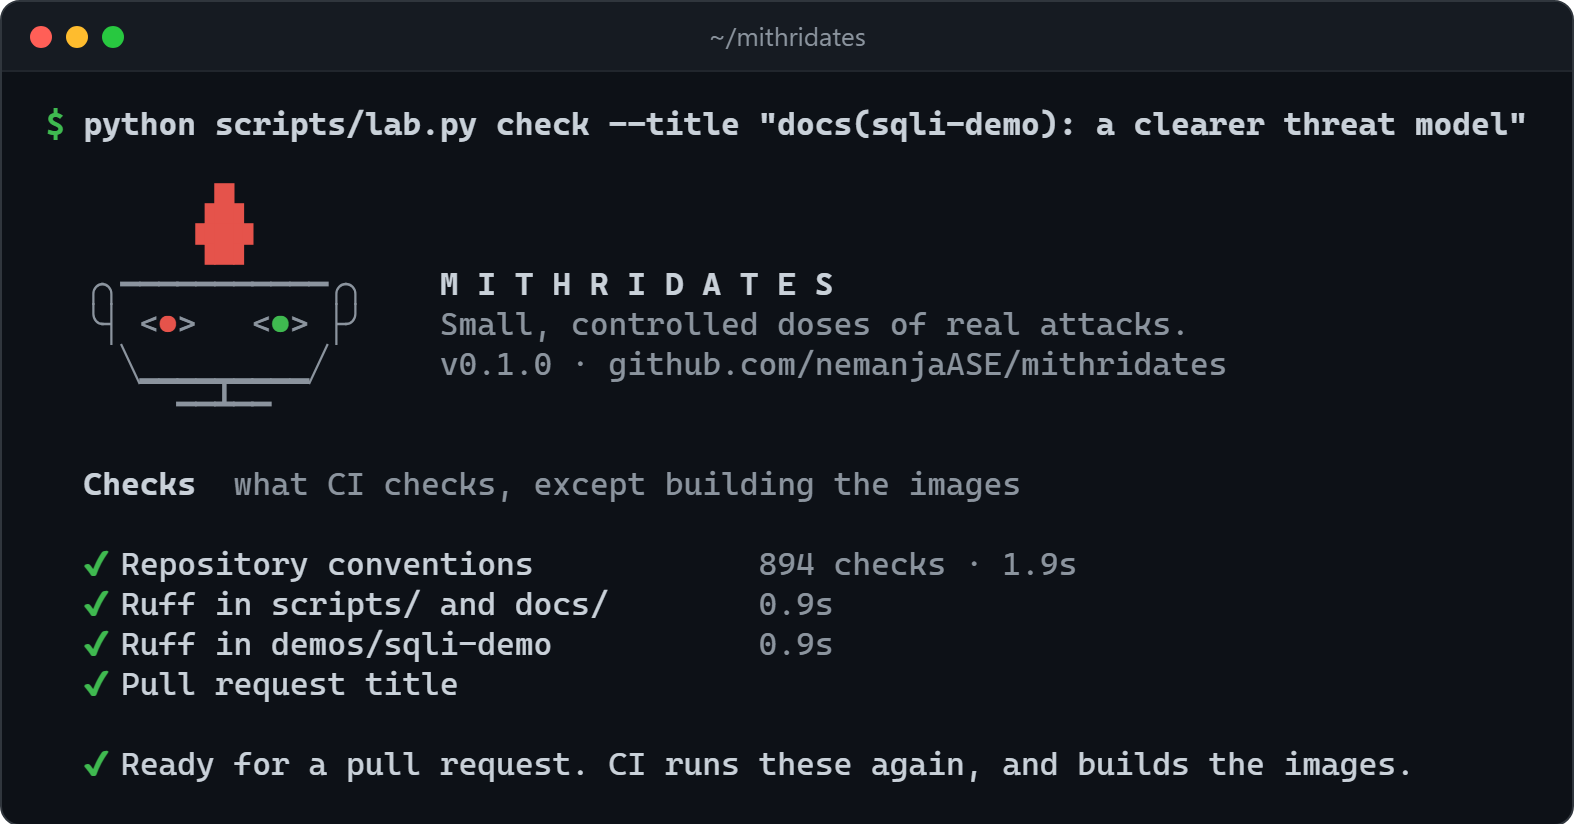
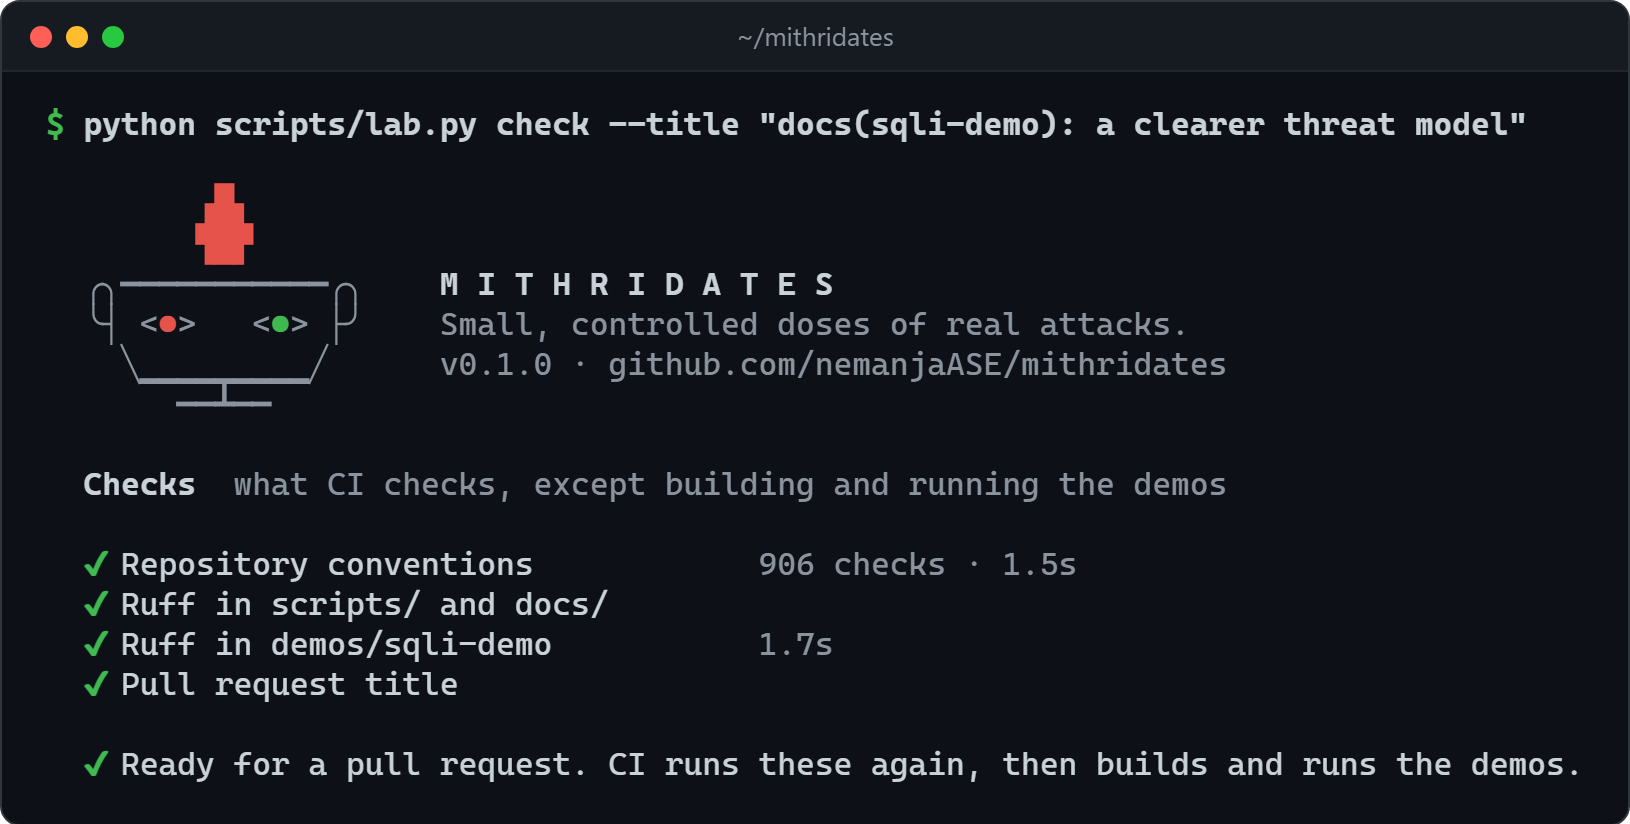
ci: run each demo's Bruno collection against the running stack (#15)
## What this changes

A new workflow, `bruno.yml`, starts each demo with `docker compose up
--wait` and runs its Bruno collection against it, with the CLI pinned to
4.3.0.

- A demo runs on every pull request. One whose stack is too slow for
that sets `x-mithridates.bruno-in-ci: on-change` in its `compose.yaml`,
with a reason; it then runs when a pull request touches it, every
Monday, and by hand. `promptinj-demo` does this, because it downloads
about 2 GB of models.
- `scripts/bruno_plan.py` decides which demos run; `check_repo.py`
checks the field and its reason.
- One aggregate check, `Bruno`, passes when every planned run passed, so
a new demo needs no change to the ruleset.

CONTRIBUTING.md (Verification, Continuous integration),
`repository-settings.md`, AGENTS.md and the wording of `lab.py check`
describe the new check; the terminal screenshots are redrawn.

Verified locally: the plan for a README-only change, a change to
`promptinj-demo` and a change to the workflow; the `sqli-demo` job's
steps (19/19 requests, 30/30 assertions); a failing run exits non-zero;
actionlint and ruff pass.

## Checklist

- [x] `python scripts/lab.py check --title "<this title>"` passes
- [x] Every default and path the documentation names matches the code

diff --git a/scripts/bruno_plan.py b/scripts/bruno_plan.py
@@ -1,0 +1,73 @@
+"""Which demos CI runs the Bruno collection of, as a JSON list for a job matrix.
+
+    python scripts/bruno_plan.py --changed-since <git ref>
+    python scripts/bruno_plan.py --all
+
+A demo's collection runs on every pull request, unless its compose.yaml says otherwise:
+
+    x-mithridates:
+      bruno-in-ci: on-change
+      reason: the stack downloads 2 GB of models before it answers
+
+`on-change` runs it only when the change touches the demo, or how the collections run
+(.github/workflows/bruno.yml and this file). `--all`, the weekly and the manual run,
+runs every demo. check_repo.py checks the field; .github/workflows/bruno.yml reads the
+plan. A demo without a `bruno/` folder is left out; check_repo.py fails it anyway.
+"""
+from __future__ import annotations
+
+import argparse
+import json
+import subprocess
+import sys
+from pathlib import Path
+
+import yaml
+
+ROOT = Path(__file__).resolve().parent.parent
+EVERY_PR, ON_CHANGE = "every-pr", "on-change"
+BRUNO_IN_CI = (EVERY_PR, ON_CHANGE)
+# A change to how the collections run is tried on every demo.
+SHARED = (".github/workflows/bruno.yml", "scripts/bruno_plan.py")
+
+
+def bruno_in_ci(compose: Path) -> str:
+    """The demo's `x-mithridates.bruno-in-ci`, or `every-pr` when it sets none."""
+    config = yaml.safe_load(compose.read_text(encoding="utf-8")) or {}
+    meta = config.get("x-mithridates") or {}
+    return meta.get("bruno-in-ci", EVERY_PR) if isinstance(meta, dict) else EVERY_PR
+
+
+def changed_files(since: str) -> list[str]:
+    """The paths the commits after `since` change."""
+    result = subprocess.run(["git", "diff", "--name-only", f"{since}...HEAD"], cwd=ROOT,
+                            capture_output=True, text=True, check=True)
+    return result.stdout.splitlines()
+
+
+def main() -> int:
+    parser = argparse.ArgumentParser(description=__doc__.splitlines()[0])
+    which = parser.add_mutually_exclusive_group(required=True)
+    which.add_argument("--all", action="store_true", help="every demo, whatever its compose.yaml says")
+    which.add_argument("--changed-since", metavar="REF", help="the commit the change starts from")
+    args = parser.parse_args()
+
+    files = [] if args.all else changed_files(args.changed_since)
+    everything = args.all or any(path in SHARED for path in files)
+    plan = []
+    for demo in sorted(p for p in (ROOT / "demos").glob("*-demo") if (p / "bruno").is_dir()):
+        when = bruno_in_ci(demo / "compose.yaml")
+        if when not in BRUNO_IN_CI:
+            sys.exit(f"demos/{demo.name}/compose.yaml: x-mithridates.bruno-in-ci is {when!r}, "
+                     f"not one of {', '.join(BRUNO_IN_CI)}")
+        touched = any(path.startswith(f"demos/{demo.name}/") for path in files)
+        runs = everything or when == EVERY_PR or touched
+        print(f"{demo.name}: {when}, {'runs' if runs else 'not touched, skipped'}", file=sys.stderr)
+        if runs:
+            plan.append(demo.name)
+    print(json.dumps(plan))
+    return 0
+
+
+if __name__ == "__main__":
+    sys.exit(main())

diff --git a/scripts/check_repo.py b/scripts/check_repo.py
@@ -20,6 +20,7 @@ import sys
 from pathlib import Path
 
 import yaml
+from bruno_plan import BRUNO_IN_CI, EVERY_PR
 from terminal import GREEN, RED, Terminal
 
 ROOT = Path(__file__).resolve().parent.parent
@@ -169,7 +170,9 @@ def check_demo(demo: Path, report: Report) -> list[tuple[str, str]]:
 
     ports: list[tuple[str, str]] = []
     if (demo / "compose.yaml").exists():
-        services = load_yaml(demo / "compose.yaml").get("services", {})
+        compose = load_yaml(demo / "compose.yaml")
+        check_bruno_in_ci(name, compose.get("x-mithridates"), report)
+        services = compose.get("services", {})
         report.check(name, name in services, f"compose.yaml has no service named {name}")
         for service, body in services.items():
             body = body or {}
@@ -251,6 +254,25 @@ def check_demo(demo: Path, report: Report) -> list[tuple[str, str]]:
     for index in (ROOT / "README.md", ROOT / "docs" / "README.md"):
         report.check(name, name in index.read_text(encoding="utf-8"), f"not listed in {rel(index)}")
     return ports
+
+
+def check_bruno_in_ci(name: str, meta: object, report: Report) -> None:
+    """`x-mithridates` in compose.yaml: when CI runs the demo's Bruno collection.
+
+    Without it the collection runs on every pull request. `on-change` runs it only when a
+    change touches the demo, and needs a reason a reviewer can weigh: it is the one way a
+    demo's verification runs less often. scripts/bruno_plan.py reads the same field.
+    """
+    if meta is None:
+        return
+    fields = meta if isinstance(meta, dict) else {}
+    report.check(name, isinstance(meta, dict) and set(meta) <= {"bruno-in-ci", "reason"},
+                 "compose.yaml: x-mithridates takes only bruno-in-ci and reason")
+    when = fields.get("bruno-in-ci", EVERY_PR)
+    report.check(name, when in BRUNO_IN_CI,
+                 f"compose.yaml: x-mithridates.bruno-in-ci is {when!r}, not one of {', '.join(BRUNO_IN_CI)}")
+    report.check(name, when == EVERY_PR or str(fields.get("reason") or "").strip(),
+                 "compose.yaml: x-mithridates.bruno-in-ci is on-change, but gives no reason")
 
 
 def check_env_example(demo: Path, report: Report) -> None:

diff --git a/scripts/lab.py b/scripts/lab.py
@@ -4,10 +4,10 @@
     python scripts/lab.py clean [--all] [--models] [--build-cache] [--dry-run]
     python scripts/lab.py check [--title "<pull request title>"] [--all]
 
-`check` runs what CI checks before a pull request can be merged, except building the
-images: the repository conventions, ruff in `scripts/` and `docs/` and in every demo the
-branch changes (`--all`: every demo), and, with `--title`, the pull request title. It
-needs uv, not Docker.
+`check` runs what CI checks before a pull request can be merged, except building and
+running the demos: the repository conventions, ruff in `scripts/` and `docs/` and in
+every demo the branch changes (`--all`: every demo), and, with `--title`, the pull
+request title. It needs uv, not Docker.
 
 `status` lists the lab's containers, images and model volumes, and marks what is left over.
 
@@ -239,9 +239,9 @@ def shorten(text: str) -> str:
 
 
 def check(ui: Terminal, args: argparse.Namespace) -> int:
-    """Runs the checks CI runs, except the image builds, and says whether the branch is ready."""
+    """Runs what CI runs, except the builds and the Bruno runs, and says if the branch is ready."""
     ui.line(f"  {ui.paint('Checks', bold=True)}  "
-            f"{ui.paint('what CI checks, except building the images', dim=True)}")
+            f"{ui.paint('what CI checks, except building and running the demos', dim=True)}")
     ui.line()
     if not shutil.which("uv"):
         ui.line(f"  {ui.paint(ui.glyph['fail'], RED, bold=True)} uv is not installed: "
@@ -290,7 +290,7 @@ def check(ui: Terminal, args: argparse.Namespace) -> int:
                 "Fix what is listed above, then run this again.")
     else:
         ui.line(f"  {ui.paint(ui.glyph['ok'], GREEN, bold=True)} Ready for a pull request. "
-                "CI runs these again, and builds the images.")
+                "CI runs these again, then builds and runs the demos.")
     ui.line()
     return 1 if failed else 0
 

diff --git a/CONTRIBUTING.md b/CONTRIBUTING.md
@@ -545,6 +545,21 @@ decision, never the model's wording.
 There are no automated test suites in this repository; the Bruno collection is the
 verification. Please raise it in an issue before adding one.
 
+CI runs the collection too ([`bruno.yml`](.github/workflows/bruno.yml)): it starts the demo
+with `docker compose up` and sends every request, on every pull request. A demo whose stack
+is too slow for that, because it downloads a model for example, can run less often. It says
+so at the top of its `compose.yaml`, with the reason, for a reviewer to weigh:
+
+```yaml
+x-mithridates:
+  bruno-in-ci: on-change
+  reason: the stack downloads about 2 GB of models before it answers, and runs them on CPU
+```
+
+Its collection then runs when a pull request touches the demo, every Monday, and by hand.
+`promptinj-demo` is the only one that does this; without the field, a demo runs on every
+pull request.
+
 ### Documentation
 
 - **The write-up** in `docs/writeups/NN-<topic>.md`, from
@@ -588,18 +603,20 @@ Every pull request runs [`ci.yml`](.github/workflows/ci.yml) and
 | **Conventions** | `scripts/check_repo.py`: the files a demo provides, the Bruno folders, the README sections and their order, the four C4 levels, that every published port is bound to `127.0.0.1` and belongs to its demo, that every container built from the repository is hardened, that no secret has a default value in code, that `.env.example` names exactly the variables `compose.yaml` reads, that no `TODO(attack)` marker is left, and that no document links to a missing path |
 | **Lint** | `uv run ruff check .` in each demo. The list is read from the folder names, so a new demo is covered without editing the workflow |
 | **Build** | the compose files resolve, and every image builds |
+| **Bruno** | every demo starts, and its Bruno collection passes against it ([`bruno.yml`](.github/workflows/bruno.yml)). A demo marked `on-change` runs only when the pull request touches it; see [Verification](#verification) |
 | **Demo generator** | `scripts/new_demo.py` generates one demo of each kind, on Python 3.11, the oldest the scripts support; each must follow the contract, lint and build, and `check_repo.py` must catch the markers left in them |
 | **Pull request format** | `scripts/check_pr.py`: the title is in the [expected form](#the-pull-request-title), `## What this changes` says what changes, and no checklist item is left unticked. It runs again when you edit the title or the description |
 
-Run them yourself before you push, all but the builds, with one command:
+Run them yourself before you push, all but the builds and the Bruno runs, with one command:
 
 ```bash
 python scripts/lab.py check
 ```
 
-CI does not start a demo: the LLM demo alone downloads gigabytes. Starting a stack is
-[a manual job](.github/workflows/smoke.yml), and your own `docker compose up` is what the
-checklist asks for. Nothing is published or deployed from this repository.
+For the Bruno runs, start your demo and send its collection, as in
+[step 5](#5-run-it-and-try-the-attack). To start any demo on GitHub's machines instead,
+run [Smoke](.github/workflows/smoke.yml) by hand from the Actions tab. Nothing is published
+or deployed from this repository.
 
 ---
 

diff --git a/.github/repository-settings.md b/.github/repository-settings.md
@@ -25,6 +25,8 @@ the check guards a title nobody sees in `git log`.
         hardening, no secret defaults ([`ci.yml`](workflows/ci.yml))
   - [ ] `Demo generator` — `scripts/new_demo.py` still produces a demo that passes
         ([`ci.yml`](workflows/ci.yml))
+  - [ ] `Bruno` — every demo starts and its Bruno collection passes. One check for all
+        demos, so a new demo needs nothing added here ([`bruno.yml`](workflows/bruno.yml))
   - [ ] `Lint <demo>` and `Build <demo>` for every demo. These are named per demo, so a
         new demo's two checks are added here when its pull request is merged.
 - [ ] **Block force pushes** and **Restrict deletions:** on (the ruleset's defaults).

diff --git a/AGENTS.md b/AGENTS.md
@@ -21,6 +21,9 @@ Instructions for AI coding agents working in this repository. People start with
   (`scripts/check_repo.py`), ruff in `scripts/`, `docs/` and every demo the branch
   changes, and the pull request title. The title follows Conventional Commits, with the
   types and scopes in `CONTRIBUTING.md`.
+- The demo's Bruno collection passes against `docker compose up`; CI runs it too
+  (`.github/workflows/bruno.yml`). Where a result is not deterministic, assert on the
+  control, never on a model's wording.
 
 ## Figures
 
